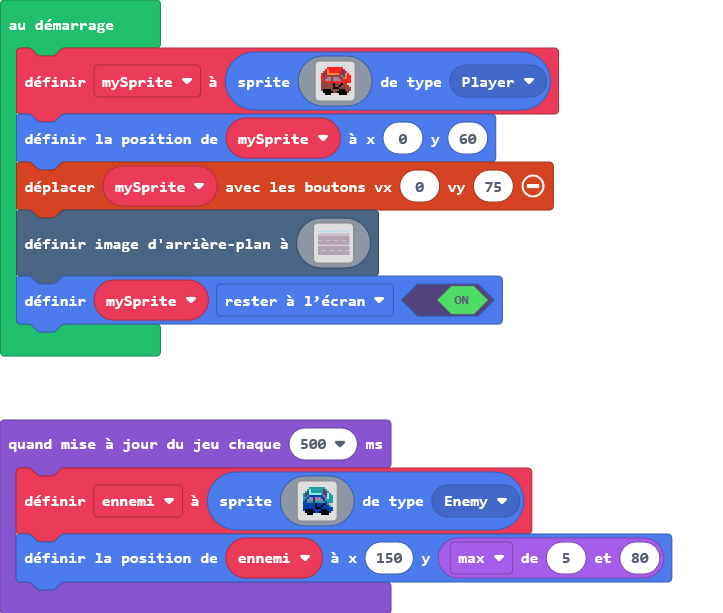
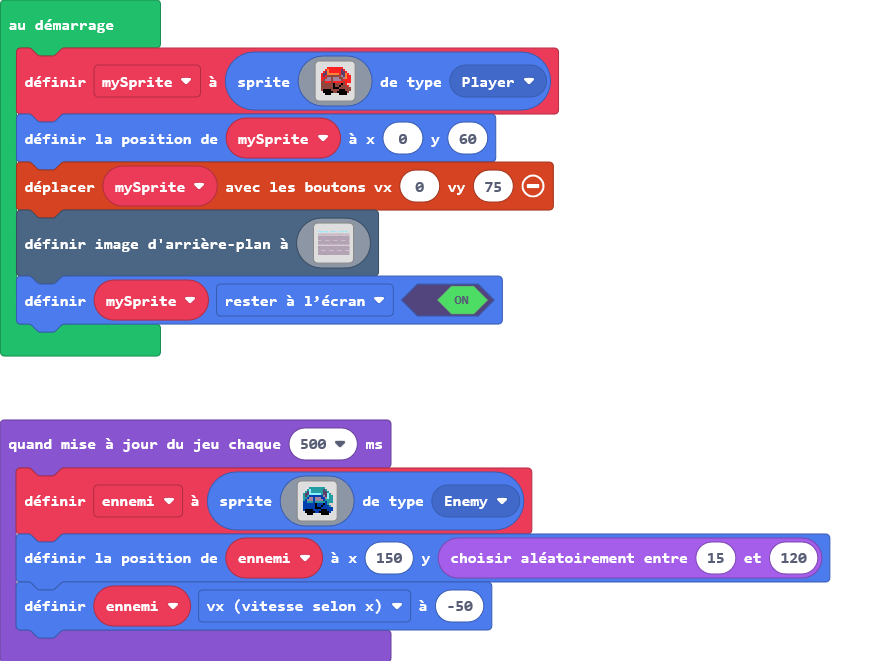
Mise à jour main.blocks, main.ts

diff --git a/main.ts b/main.ts
@@ -161,5 +161,6 @@ game.onUpdateInterval(500, function () {
         . . . f f f . . . . f f f f . . 
         . . . . . . . . . . . . . . . . 
         `, SpriteKind.Enemy)
-    ennemi.setPosition(150, Math.max(5, 80))
+    ennemi.setPosition(150, randint(15, 120))
+    ennemi.vx = -50
 })
